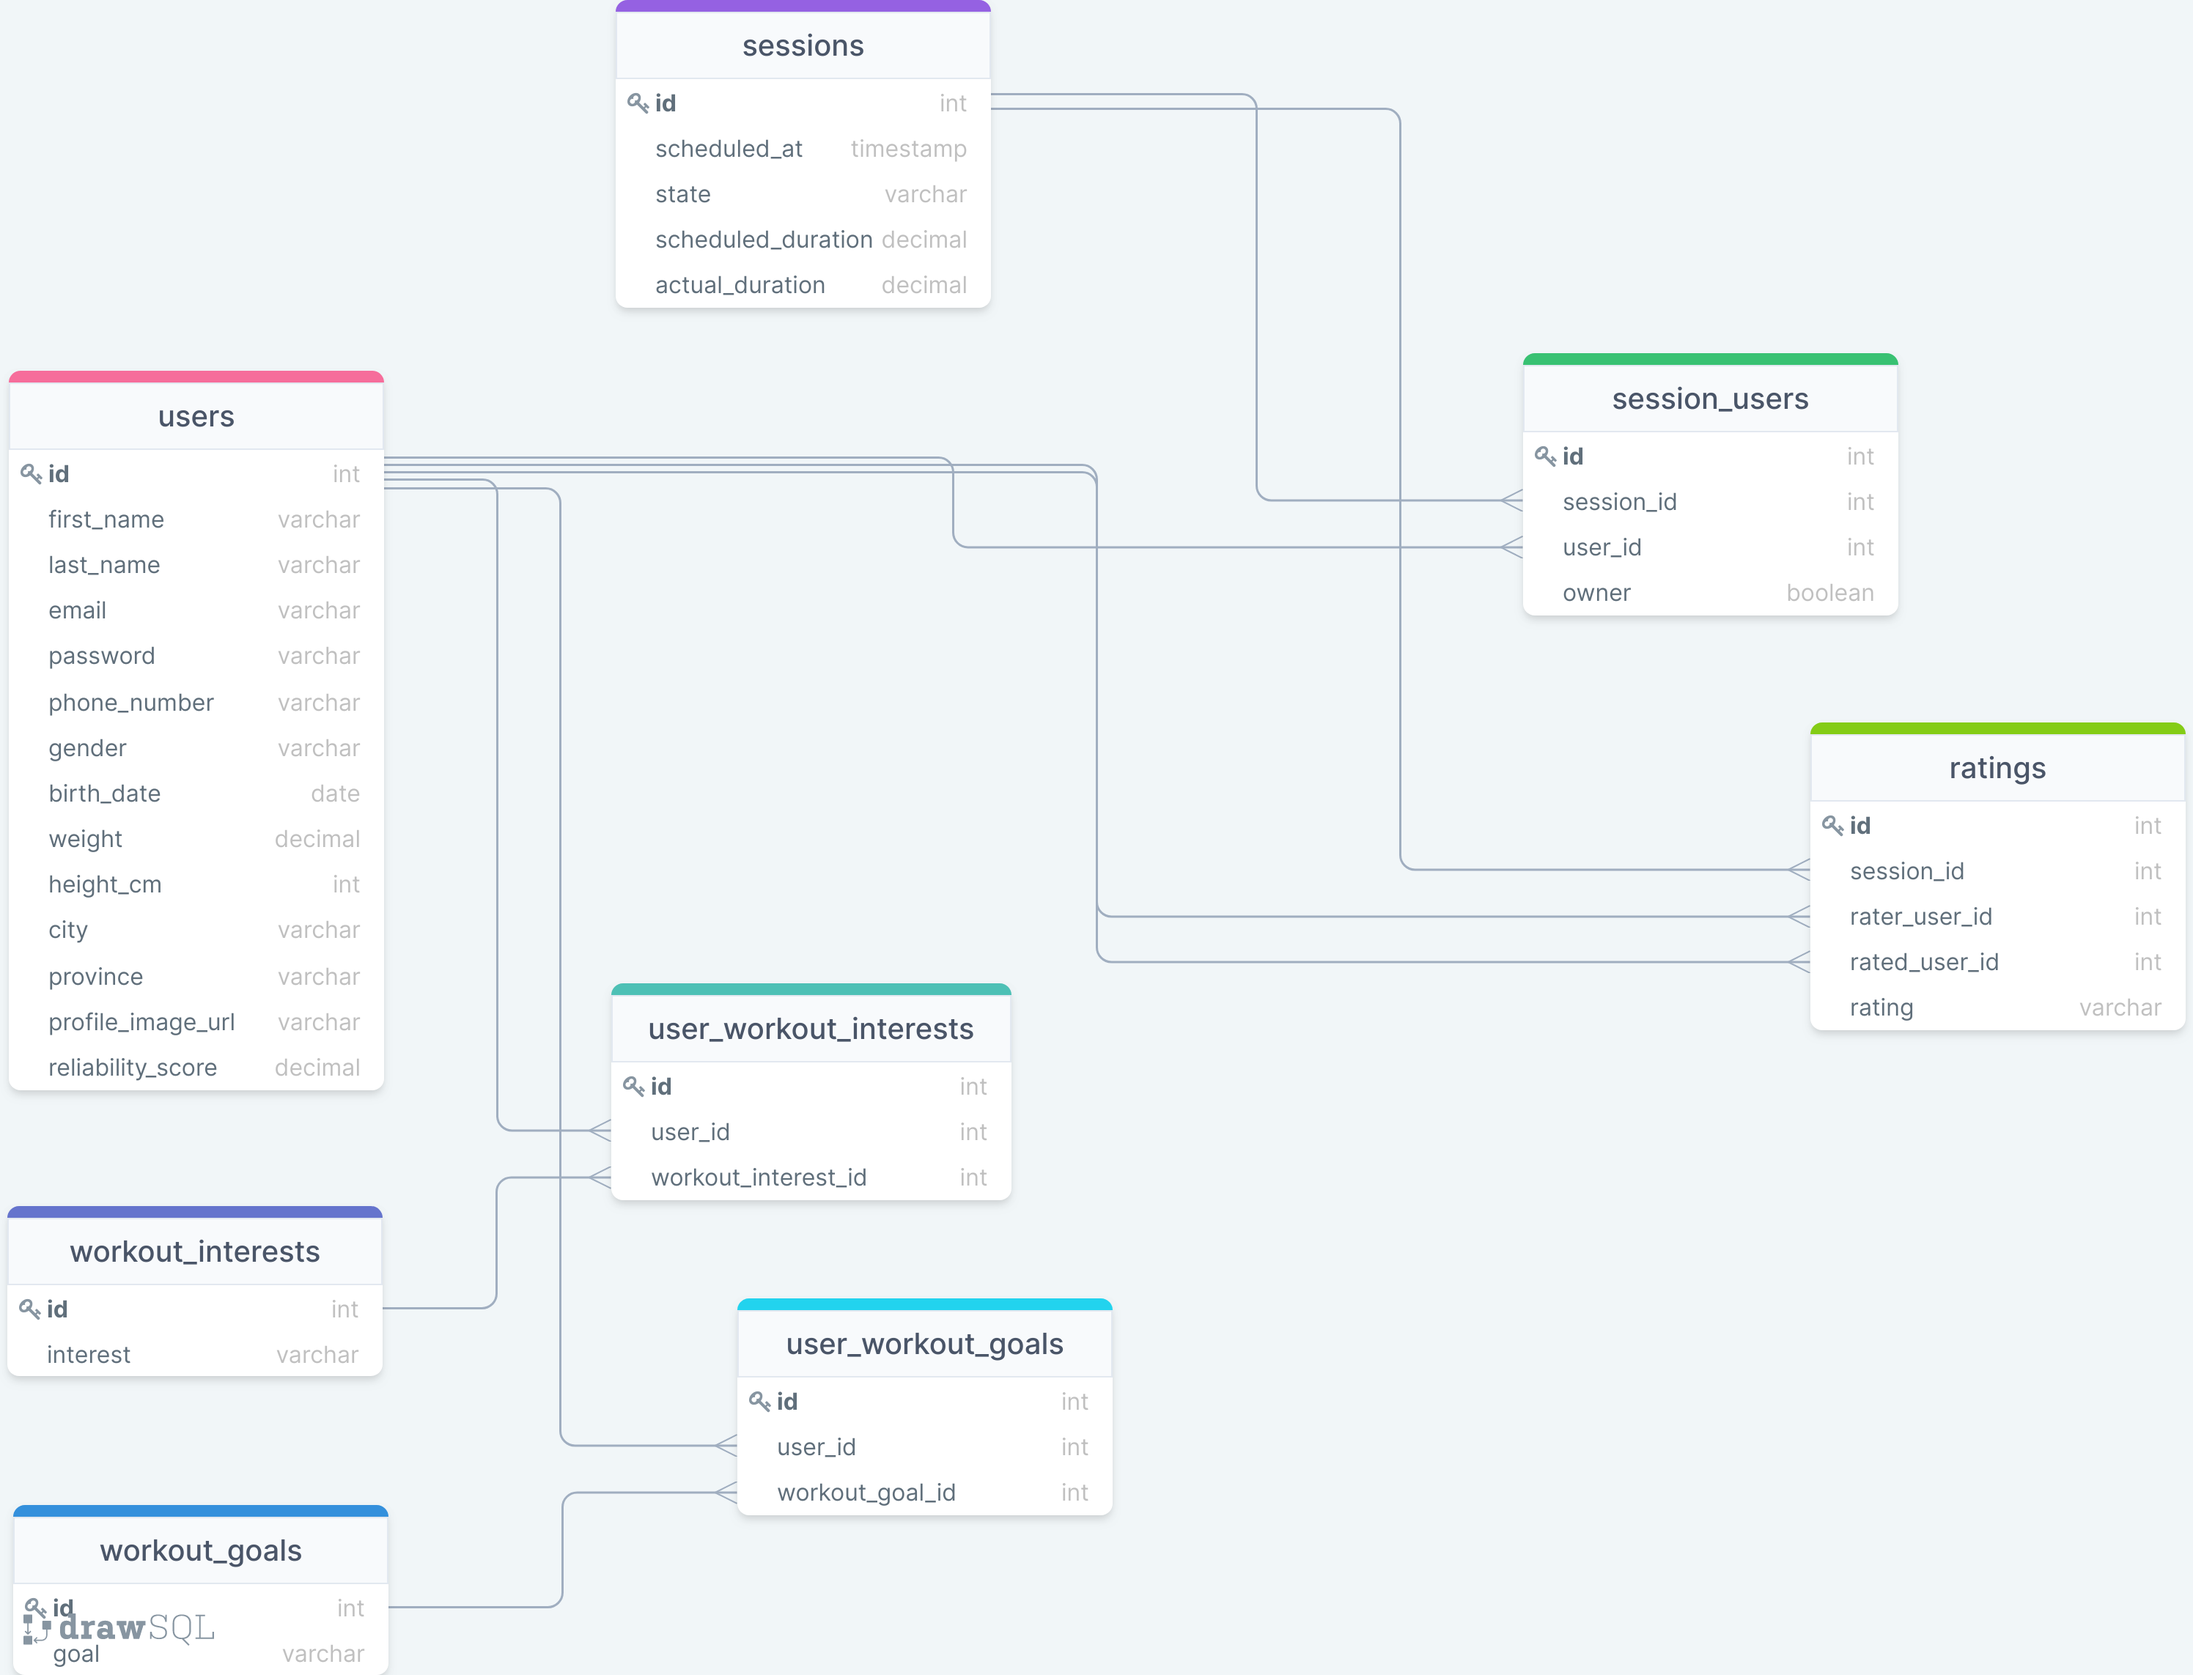
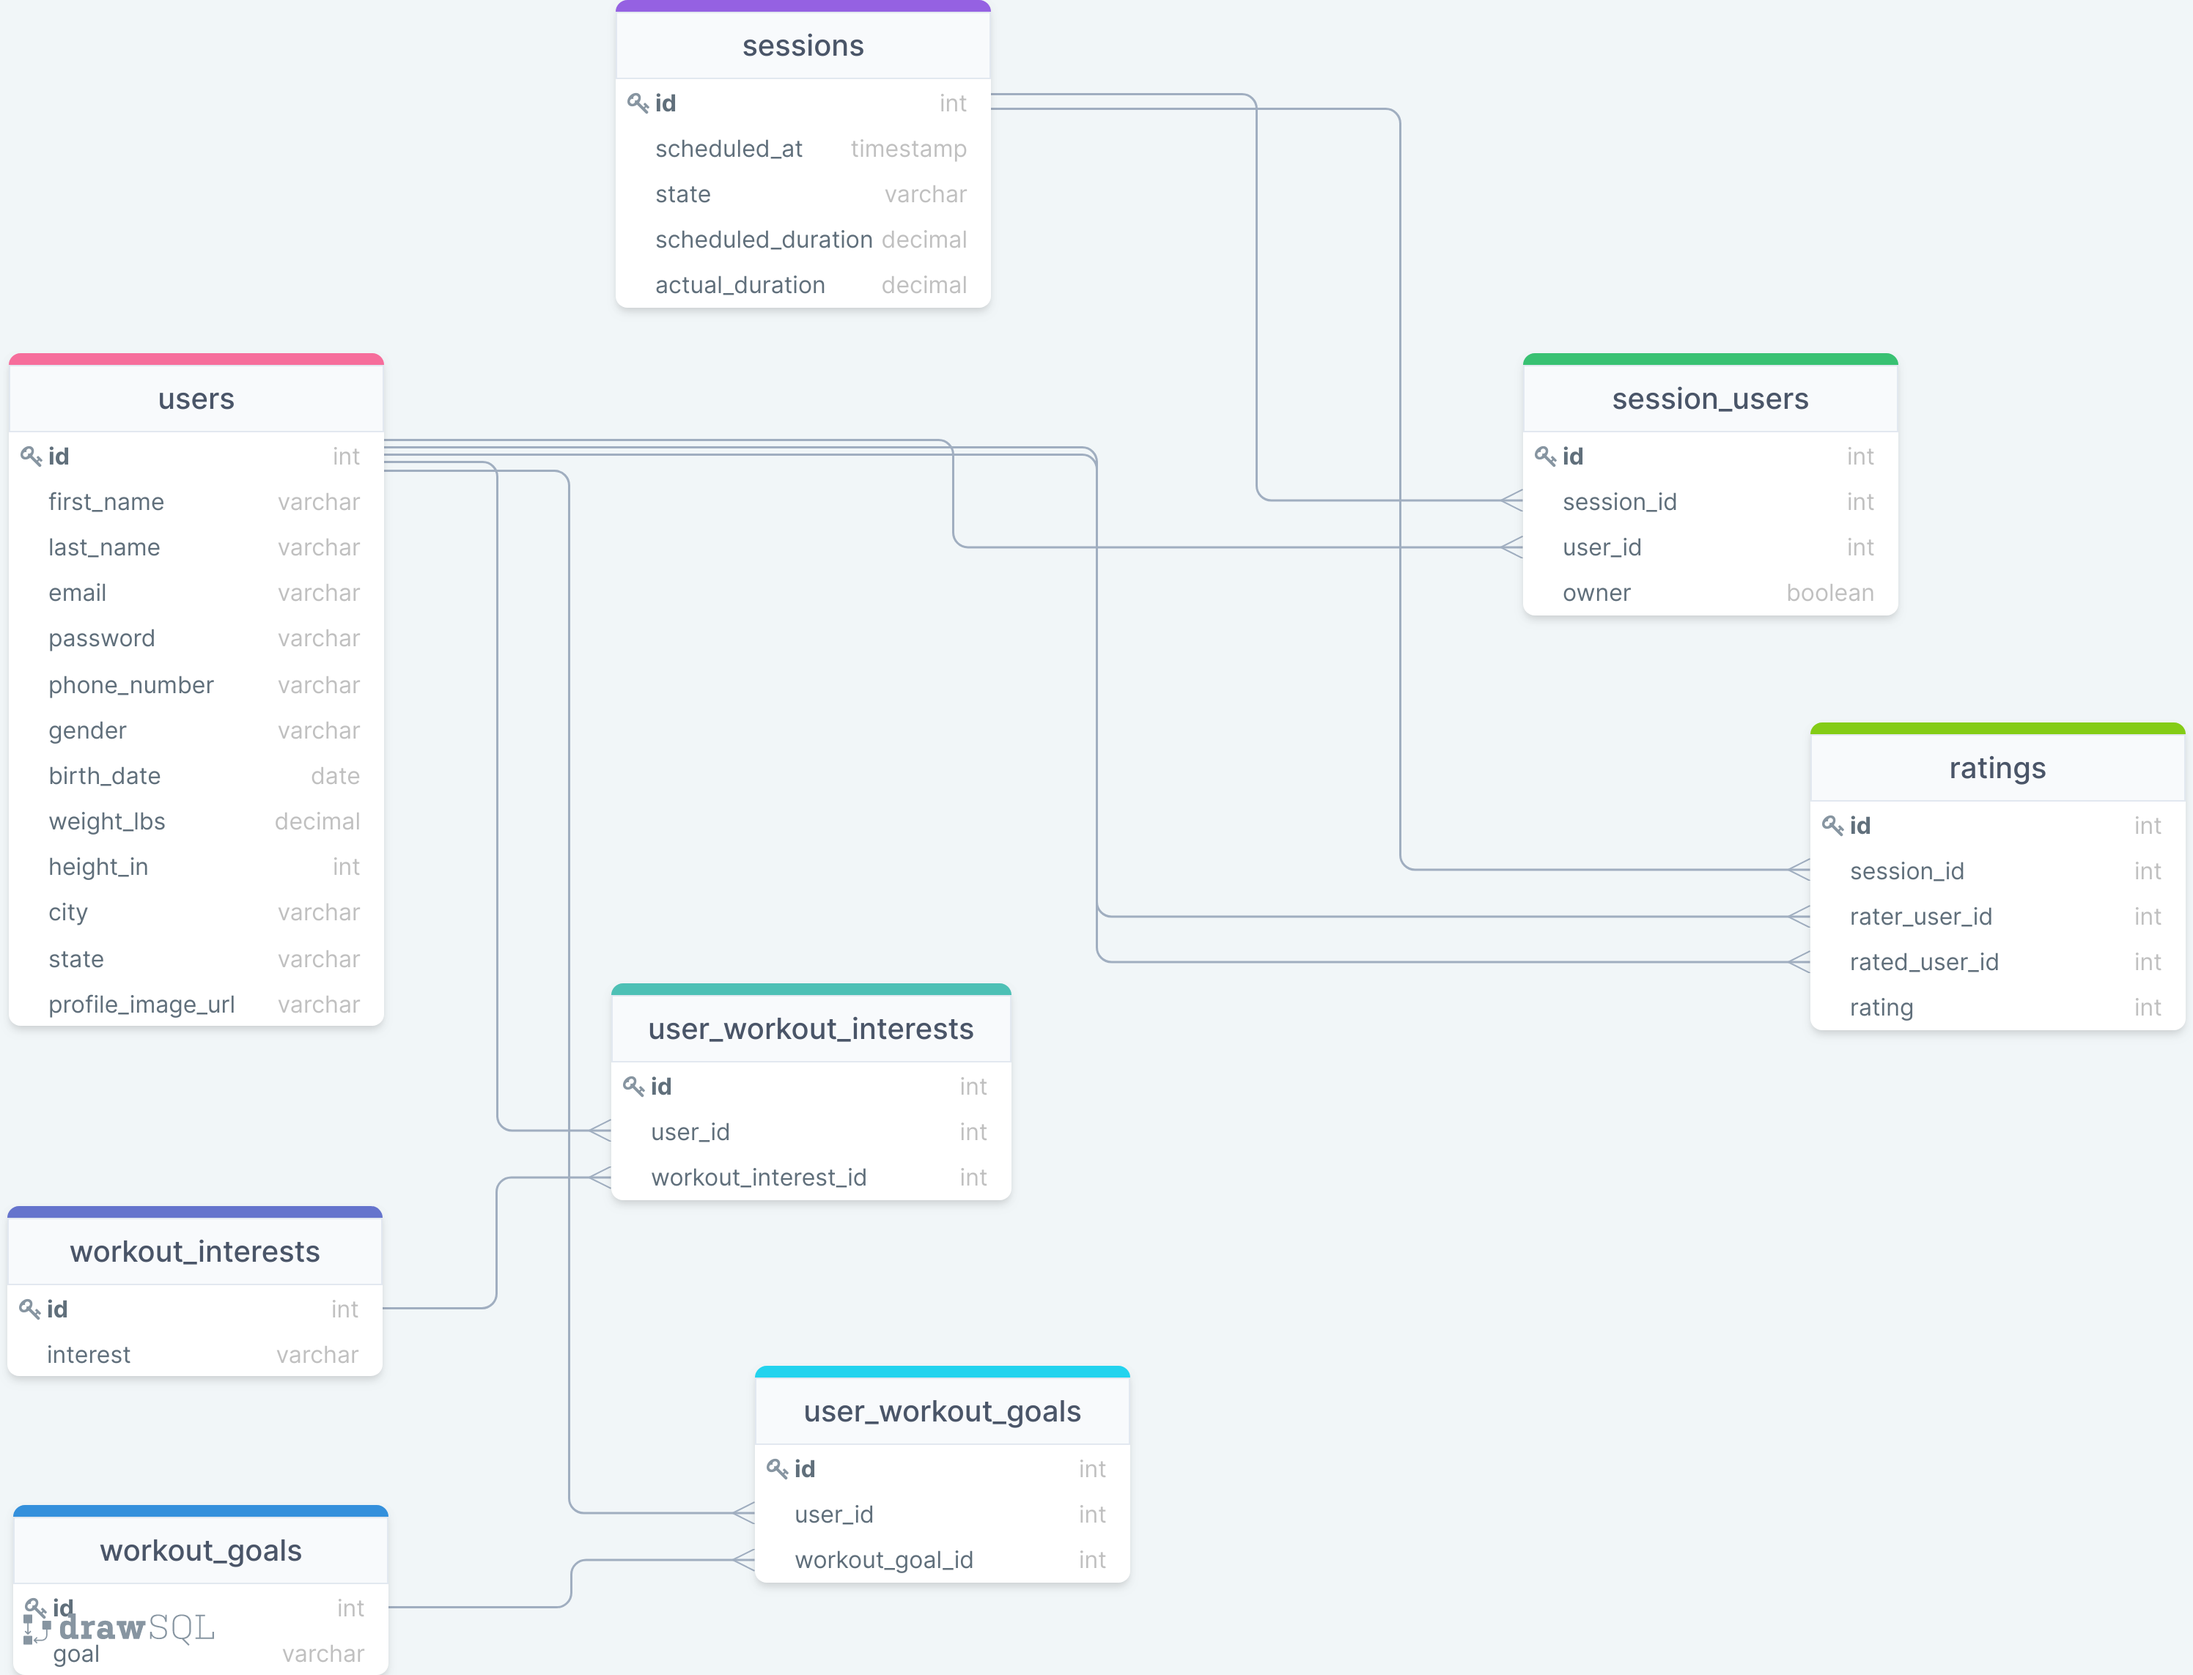
update ERD docs

Changed region(s): [[0.0, 0.1864, 0.4973, 0.6522], [0.3108, 0.7765, 0.5284, 0.9628]]

diff --git a/planning/ERD_overview.md b/planning/ERD_overview.md
@@ -4,9 +4,9 @@ v1 of the ERD includes all the tables needed to get the following features worki
 * Scheduler
 * Matcher
 
-The **users** table contains all information about the user including account details and personal details. Workout interests and goals are connected using an intermediary table since a user can have many interests and goals. A “reliability_score” will also be calculated for users and stored in this table.
+The **users** table contains all information about the user including account details and personal details. Workout interests and goals are connected using an intermediary table since a user can have many interests and goals.
 
 The **sessions** table contains information about scheduled workout sessions. Options for the “state” column will include “pending”, “active”, “completed” and “canceled”. 
 Since there can be multiple users in a session, we will join the two using the **session_users** table.
 
-The **ratings** table will store the ratings that users provide at the end of workout sessions. The options for “rating” will just be “good” and “bad”.
+The **ratings** table will store the ratings that users provide at the end of workout sessions. The options for “rating” will just be 1 for good and 0 for bad.
